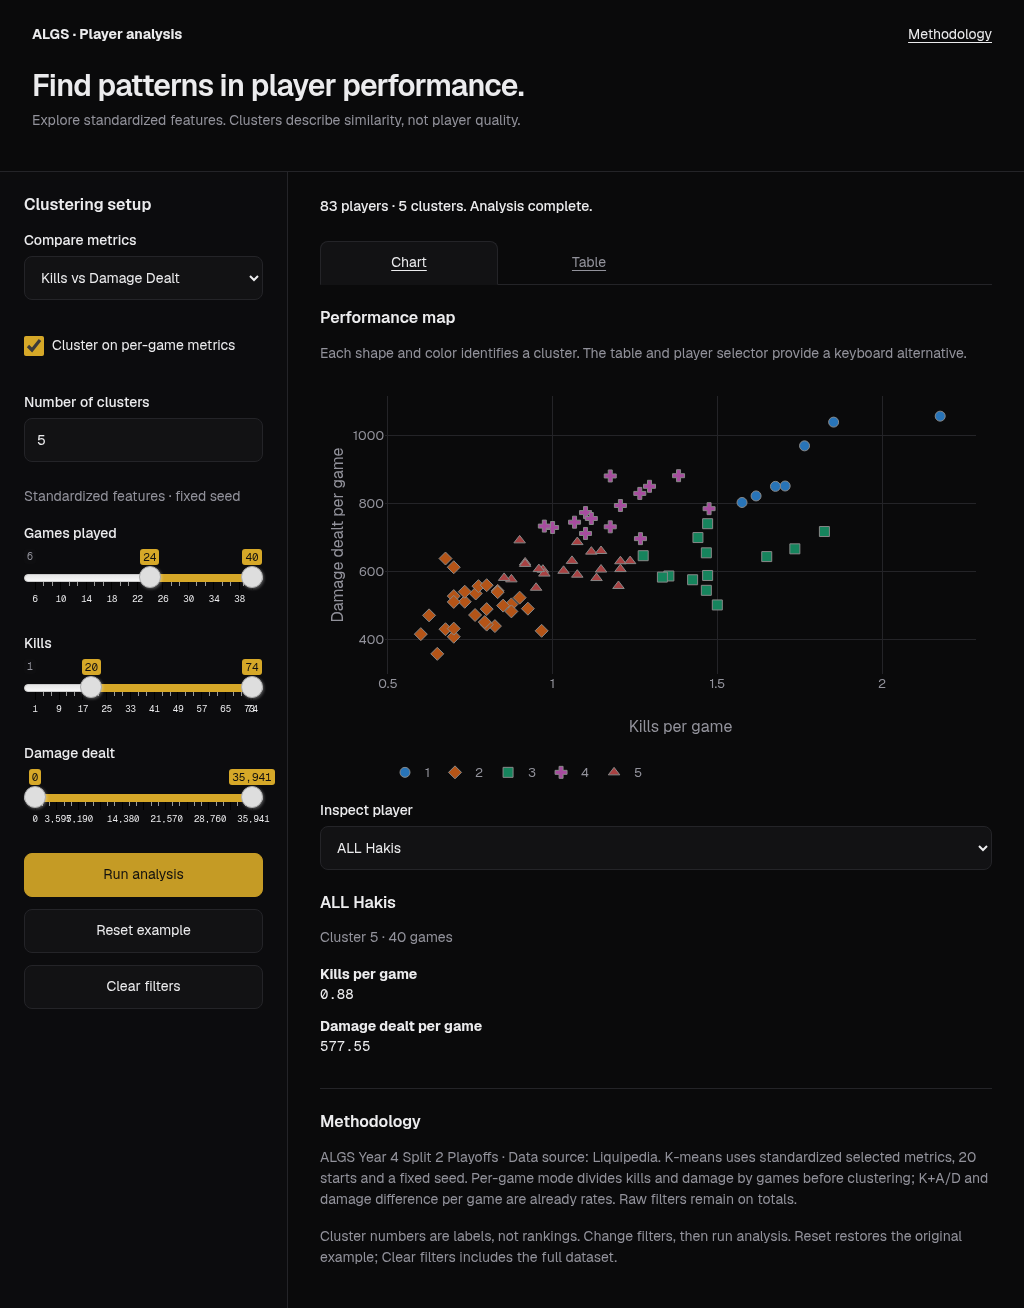
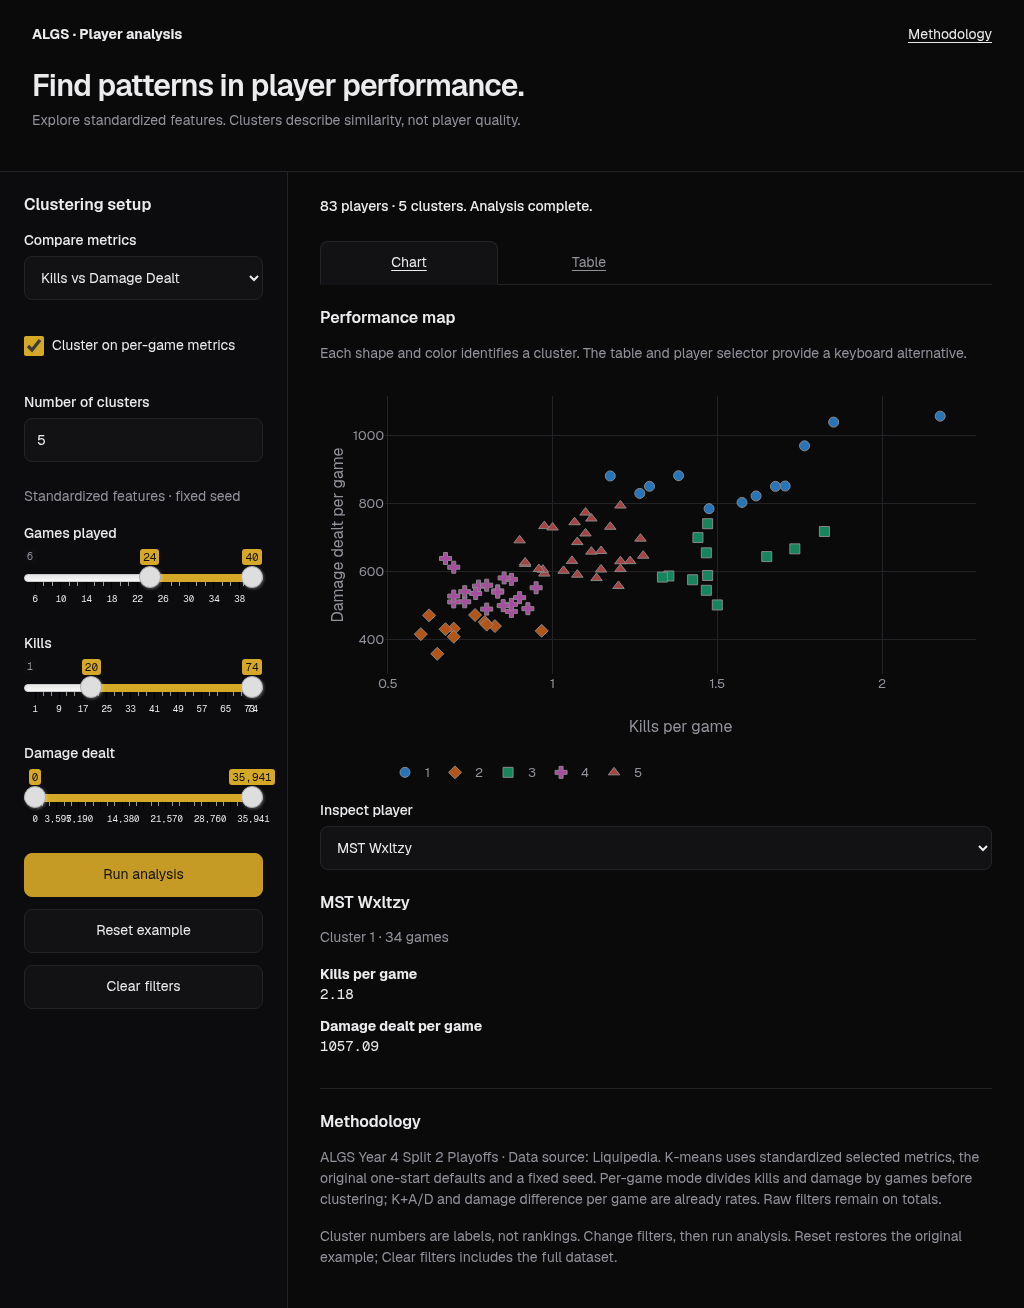
Preserve original K-means defaults under deterministic seeding

diff --git a/docs/verification.md b/docs/verification.md
@@ -32,6 +32,14 @@ Live HTTP returned 200 and actual Shiny WebSocket interactions passed at 320/768
 
 ## Limits
 
-Clean network installation of the pinned CRAN sources remains unverified; setup's existing-library path passed. CI is configured to attempt a clean install, and its results must be reported separately from these command exits. R parse/read-only whitespace lint and focused behavior tests are actual checks; no full R static typechecker or separate static-export build is claimed. Successful app startup, HTTP and WebSocket interactions validate the Shiny runtime.
+Setup's existing-library path passed in cloud. A clean installation and the complete hosted suite subsequently passed on predecessor `ba2ba72d` in [workflow run 2](https://github.com/goatcheese98/algss2_clusterapp/actions/runs/39336694722). The correction head requires its own hosted check results; predecessor success is not treated as that result. R parse/read-only whitespace lint and focused behavior tests are actual checks; no full R static typechecker or separate static-export build is claimed. Successful app startup, HTTP and WebSocket interactions validate the Shiny runtime.
 
 Paper remains an unapproved design candidate; original Paper PNGs are unavailable. Keyboard/focus checks do not establish complete screen-reader or WCAG conformance. No production hosting migration was performed.
+
+## Optimization scope correction
+
+The initial draft changed normal analyses to Lloyd with 20 starts and 100 iterations. Coordinator review identified this as exceeding the intended deterministic-seed/validation slice. The correction preserves the original `kmeans(scale(features), centers = k)` procedure: Hartigan-Wong, one start, and the default 10-iteration limit. It also preserves filtered CSV row order because seeded center sampling depends on that order. Only `k == number of valid rows` uses Lloyd, with the original start/iteration defaults; Hartigan-Wong rejects this boundary. Merely reaching the distinct-row count with duplicates does not invoke the fallback. Constant features contribute zero distance, and existing bounds/RNG-restoration checks remain.
+
+The fixed-seed regression fails on the initial draft and passes after correction. It compares co-membership and deterministic distance-based label remapping to the original K-means reference for both comparisons, plus per-game features, at 2/5/8 clusters. The per-game feature correction is deliberate and separate: the old checkbox changed only plot coordinates, while the corrected checkbox changes the clustering inputs too; totals and already-rate-based feature definitions are preserved.
+
+After correction, the cloud R regression suite, R parse/read-only lint, TypeScript typecheck/build and complete live Shiny browser matrix all exited 0. The 16 screenshot captures were refreshed with the corrected procedure. Hosted checks on the correction head are tracked in the draft PR.

diff --git a/README.md b/README.md
@@ -13,7 +13,13 @@ Rscript scripts/setup.R
 Rscript -e 'shiny::runApp(".", host="127.0.0.1", port=3838, launch.browser=FALSE)'
 ```
 
-Setup downloads exact CRAN source tarballs, checking Archive first and then the current path with the same versioned filename. It fails on missing sources or version mismatches; it never upgrades to a different version. Installation requires network access and system build dependencies. The cloud verification reused the restored dependency installation; a clean Internet install remains to be verified by CI.
+Setup downloads exact CRAN source tarballs, checking Archive first and then the current path with the same versioned filename. It fails on missing sources or version mismatches; it never upgrades to a different version. Installation requires network access and system build dependencies. The cloud verification reused the restored dependency installation. Hosted CI exercises a clean Internet installation; check the PR checks for the exact-head outcome.
+
+## Clustering procedure
+
+Normal analyses retain the original `kmeans(scale(features), centers = k)` semantics: Hartigan-Wong, one start and the default 10 iterations, now within the fixed seed. Original filtered row order is preserved because random center selection depends on it. Constant columns contribute zero distance. Only `k == number of valid rows` uses Lloyd, with one start and the default iteration limit, because Hartigan-Wong rejects that boundary. Reaching the distinct-row count alone does not select Lloyd when duplicate rows remain. Cluster numbers are deterministically relabeled by distance; regression tests compare co-membership with the original call so cosmetic labels do not hide algorithm changes.
+
+The per-game correction is separate: the original checkbox changed chart coordinates while clustering stayed on totals. When enabled, this implementation deliberately divides kills and damage by games **before** clustering to match the existing checkbox intent. Totals mode and the already-rate-based comparison preserve the original feature definitions.
 
 ## Use
 
